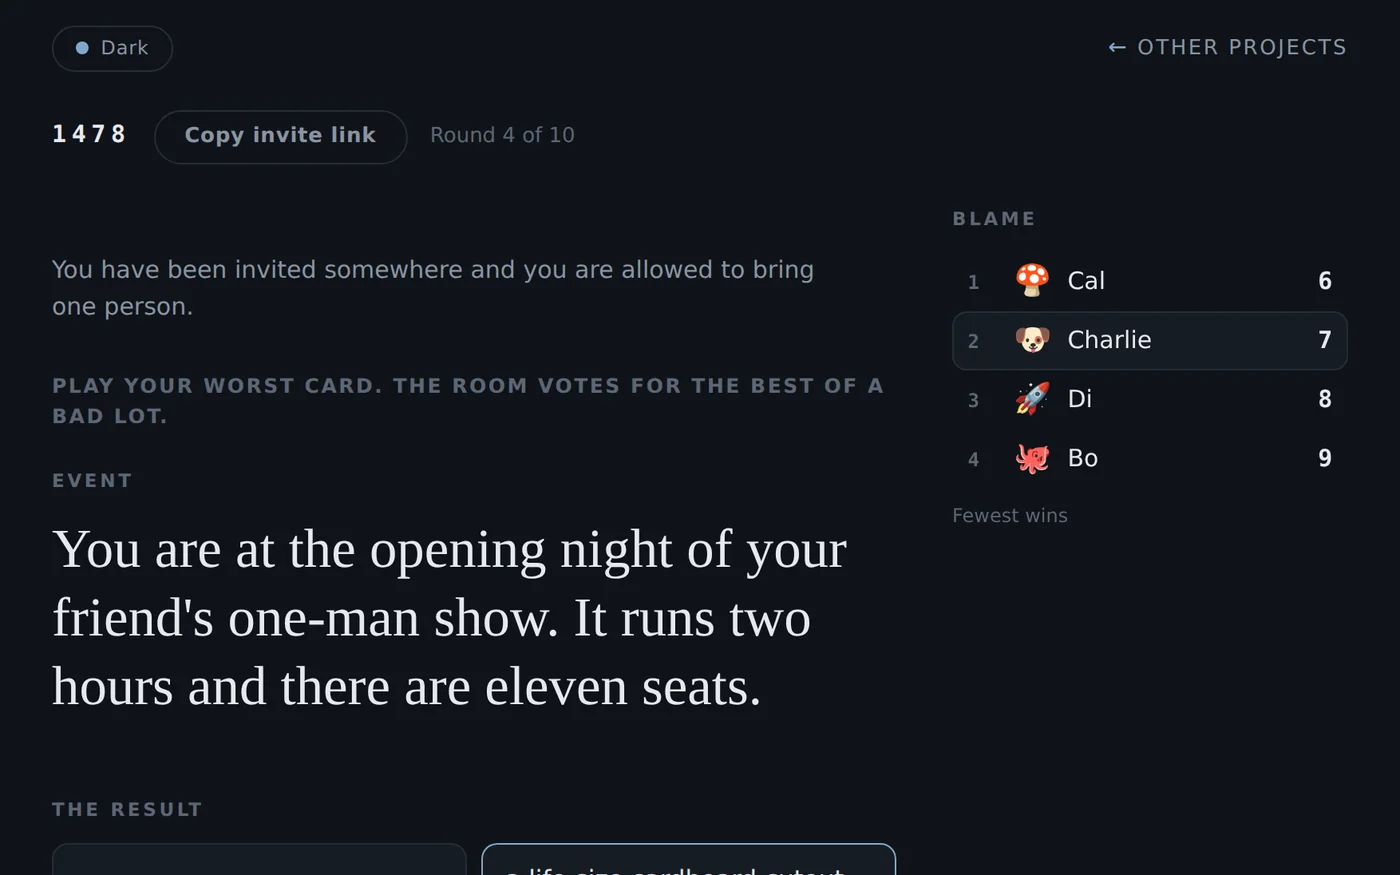
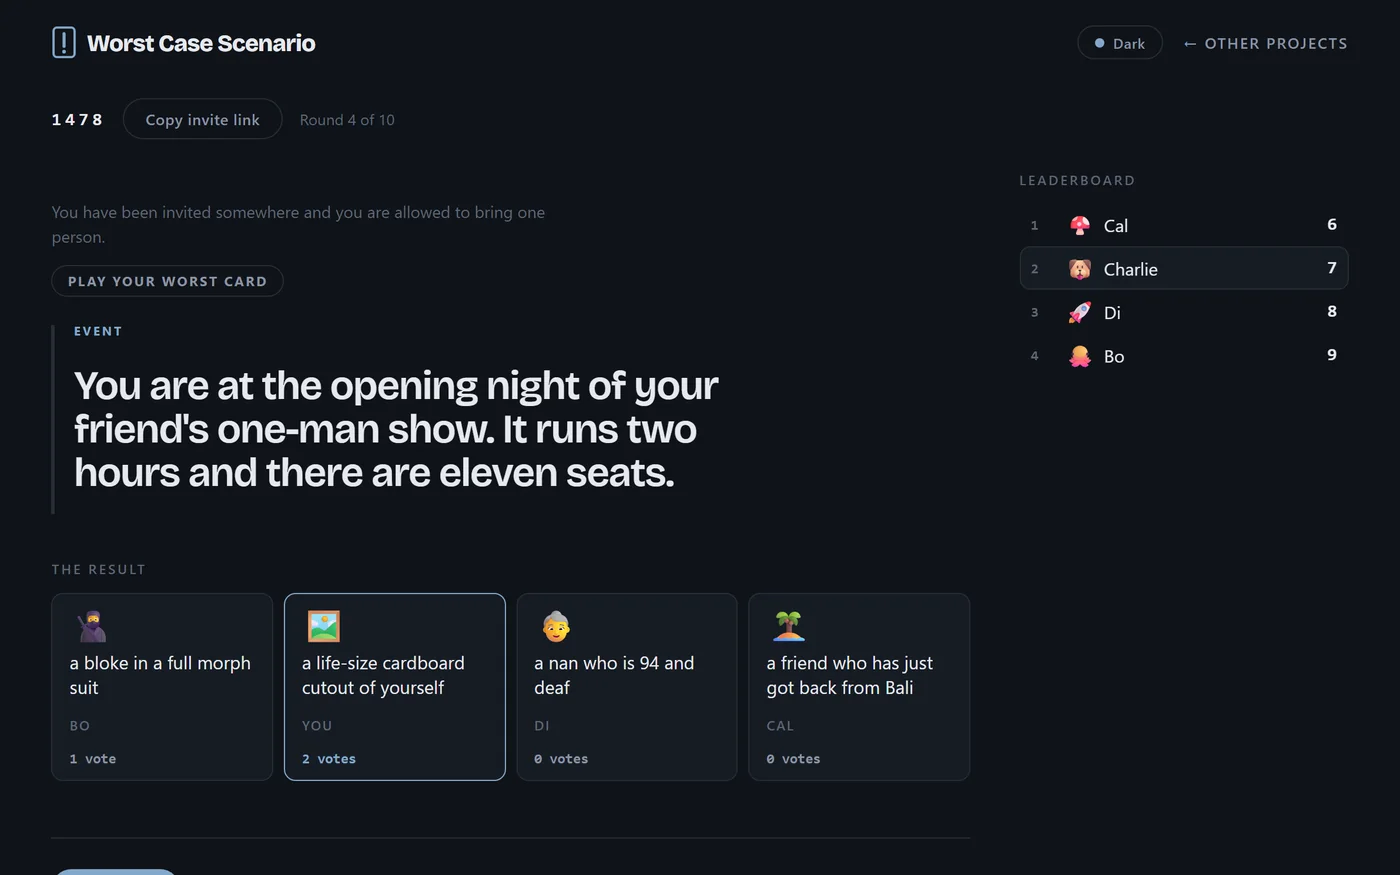
The share card and the hub thumbnail catch up with the new page
Both are shot from the page, so both were still showing the old title face, the
old round layout and cards with no pictures on them.

The share card also moves to the same face as the wordmark. A share image set in
a typeface the page does not use reads as a different product the moment the two
sit next to each other. Its own card had words running past its border, which
was there before and is fixed rather than left.

diff --git a/assets/wcs-og-source.html b/assets/wcs-og-source.html
@@ -10,7 +10,7 @@
        node tools/shoot_og.mjs   (or any 1200x630 screenshot of this file)
      and saved to assets/wcs-og.png. -->
 <style>
-  @import url("https://fonts.googleapis.com/css2?family=Spectral:wght@400;600&display=swap");
+  @import url("https://fonts.googleapis.com/css2?family=Bricolage+Grotesque:opsz,wght@12..96,600;12..96,800&display=swap");
   *{box-sizing:border-box;margin:0;padding:0}
   :root{
     --bg:#0f1319; --ink:#e6e9ee; --soft:#8a94a3; --faint:#5d6675;
@@ -37,16 +37,17 @@
   .fan b{position:absolute; left:50%; top:50%; margin:-150px 0 0 -115px;
          width:230px; height:300px; display:block;
          transform:rotate(-1deg) translate(0,-14px);
-         padding:22px; font:400 20px/1.35 ui-sans-serif,system-ui,sans-serif;
+         padding:22px; font:400 17px/1.4 ui-sans-serif,system-ui,sans-serif;
          color:var(--ink)}
   .fan b span{display:block; color:var(--faint);
               font:600 11px/1 ui-sans-serif,system-ui,sans-serif;
               letter-spacing:.16em; text-transform:uppercase; margin-bottom:14px}
+  .fan b em{display:block; font-style:normal; font-size:44px; line-height:1; margin-top:20px}
   .copy{max-width:620px; position:relative; z-index:2}
   .kicker{color:var(--faint); font:600 14px/1 ui-sans-serif,system-ui,sans-serif;
           letter-spacing:.2em; text-transform:uppercase}
-  h1{font:600 78px/1.02 Spectral,"Iowan Old Style","Palatino Linotype",Palatino,
-     Georgia,serif; letter-spacing:-.02em; margin:22px 0 0}
+  h1{font:800 82px/.98 "Bricolage Grotesque",ui-sans-serif,system-ui,sans-serif;
+     letter-spacing:-.035em; margin:22px 0 0}
   .sub{color:var(--soft); font-size:24px; line-height:1.45; margin-top:22px;
        max-width:560px}
   .rule{height:1px; background:var(--rule); margin:34px 0 0; width:190px}
@@ -56,7 +57,7 @@
 <body>
   <div class="fan">
     <i></i><i></i><i></i>
-    <b><span>The situation</span>Your work Christmas party is at a trampoline park.</b>
+    <b><span>The situation</span>Your work Christmas party is at a trampoline park.<em>🎪</em></b>
   </div>
   <div class="copy">
     <p class="kicker">A party game</p>
